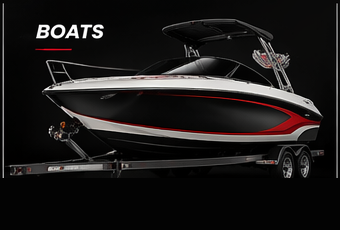
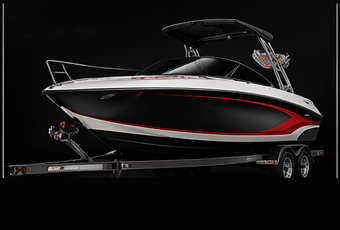
Normalize vehicle gallery image cards

Changed region(s): [[0.0882, 0.0913, 0.3235, 0.2435]]

diff --git a/styles.css b/styles.css
@@ -67,7 +67,7 @@ a {
 }
 
 .section-anchor {
-  scroll-margin-top: 92px;
+  scroll-margin-top: 144px;
 }
 
 .site-header {
@@ -370,95 +370,81 @@ address svg {
 
 .vehicle-card {
   position: relative;
-  min-height: 290px;
   overflow: hidden;
-  background: #090909;
+  background: #030303;
 }
 
 .vehicle-card+.vehicle-card {
   border-left: 1px solid rgba(255, 255, 255, 0.25);
 }
 
+/* All three source images share one aspect ratio; contain keeps every vehicle intact. */
 .card-image {
+  position: relative;
+  width: 100%;
+  aspect-ratio: 340 / 230;
+  overflow: hidden;
+  background: #030303;
+}
+
+.card-image img {
+  width: 100%;
+  height: 100%;
+  object-fit: contain;
+  object-position: center;
+  opacity: 0.94;
+}
+
+.card-image h3 {
   position: absolute;
-  inset: 0;
-  background-repeat: no-repeat;
-  background-size: cover;
-  background-position: center;
-  opacity: 0.88;
+  top: clamp(14px, 1.8vw, 20px);
+  left: clamp(16px, 2.2vw, 24px);
+  margin: 0;
+  color: #fff;
+  font-size: clamp(15px, 1.55vw, 19px);
+  font-weight: 900;
+  line-height: 1.1;
+  letter-spacing: 0.05em;
+  text-transform: uppercase;
+  text-shadow: 0 2px 10px rgba(0, 0, 0, 0.96);
 }
 
-.card-auto {
-  background-image: url("/public/assets/crops/auto.png");
-}
-
-.card-boat {
-  background-image: url("/public/assets/crops/boat.png");
-}
-
-.card-motorcycle {
-  background-image: url("/public/assets/crops/motorcycle.png");
-  background-color: #030303;
-  background-size: contain;
-  background-position: center bottom;
+.card-image h3::after {
+  display: block;
+  width: 36px;
+  height: 2px;
+  margin-top: 9px;
+  content: "";
+  background: var(--red);
 }
 
 .card-content {
-  position: relative;
-  z-index: 2;
-  display: block;
-  min-height: 290px;
-  padding: 24px clamp(20px, 4vw, 42px);
-}
-
-.card-content::after {
-  position: absolute;
-  left: 0;
-  right: 0;
-  bottom: 0;
-  z-index: 1;
-  height: 112px;
-  content: "";
-  background: linear-gradient(180deg, rgba(3, 3, 3, 0), #030303 36%, #030303 100%);
-}
-
-.card-content h3 {
-  position: absolute;
-  width: 1px;
-  height: 1px;
-  padding: 0;
-  margin: -1px;
-  overflow: hidden;
-  clip: rect(0, 0, 0, 0);
-  white-space: nowrap;
-  border: 0;
-}
-
-/* The category title is part of the motorcycle artwork, like the Autos and Boats images. */
-
-.card-content a {
-  position: absolute;
-  z-index: 2;
-  left: clamp(20px, 4vw, 42px);
-  bottom: 24px;
-  display: inline-flex;
-  min-width: 172px;
-  min-height: 42px;
+  display: flex;
+  min-height: 82px;
   align-items: center;
   justify-content: center;
-  padding: 0 18px;
+  padding: 14px clamp(12px, 1.6vw, 20px);
+}
+
+.card-content a {
+  display: inline-flex;
+  width: min(100%, 220px);
+  min-width: 0;
+  min-height: 48px;
+  align-items: center;
+  justify-content: center;
+  padding: 0 12px;
   color: #fff;
   background: var(--red);
+  text-align: center;
   text-transform: uppercase;
-  font-size: 12px;
+  font-size: clamp(10px, 1vw, 12px);
   font-weight: 900;
-  box-shadow: 0 0 0 6px var(--red);
-  transition: background 180ms ease, box-shadow 180ms ease;
+  transition: background 180ms ease;
 }
 
 .card-content a:hover {
   background: var(--red-dark);
-  box-shadow: 0 0 0 6px var(--red-dark);
 }
 
 .services {
@@ -1073,18 +1059,6 @@ address svg {
   }
 }
 
-@media (max-width: 900px) {
-  .service-cards {
-    grid-template-columns: repeat(2, minmax(0, 1fr));
-  }
-
-  .vehicle-card.motorcycle-card {
-    grid-column: 1 / -1;
-    border-left: 0;
-    border-top: 1px solid rgba(255, 255, 255, 0.25);
-  }
-}
-
 @media (max-width: 760px) {
   .site-header {
     grid-template-columns: 80px minmax(0, 1fr) 44px;
@@ -1198,20 +1172,6 @@ address svg {
   .vehicle-card+.vehicle-card {
     border-left: 0;
     border-top: 1px solid rgba(255, 255, 255, 0.25);
-  }
-
-  .card-content {
-    min-height: 235px;
-  }
-
-  .card-content::after {
-    height: 150px;
-    background: #030303;
-  }
-
-  .card-content a {
-    bottom: 34px;
-    box-shadow: none;
   }
 
   .services {
@@ -1365,8 +1325,13 @@ address svg {
   }
 }
 
+@media (max-width: 980px) {
+  .section-anchor {
+    scroll-margin-top: 124px;
+  }
+}
+
 @media (max-width: 760px) {
-  /* Mobile header is about 96px tall; keep anchored headings clear of it. */
   .section-anchor {
     scroll-margin-top: 108px;
   }

diff --git a/index.html b/index.html
@@ -153,26 +153,29 @@
       </div>
       <div class="service-cards">
         <article class="vehicle-card">
-          <div class="card-image card-auto asset-window" role="img"
-            aria-label="Detailed red performance car front view"></div>
-          <div class="card-content">
+          <div class="card-image card-auto">
+            <img src="/public/assets/crops/auto.png" alt="Detailed red performance car front view" width="340" height="230" />
             <h3>Autos</h3>
+          </div>
+          <div class="card-content">
             <a href="#services">Detail Your Ride<span class="sr-only"> – auto detailing services</span></a>
           </div>
         </article>
         <article class="vehicle-card">
-          <div class="card-image card-boat asset-window" role="img"
-            aria-label="Detailed white and red boat on a trailer"></div>
-          <div class="card-content">
+          <div class="card-image card-boat">
+            <img src="/public/assets/crops/boat.png" alt="Detailed white and red boat on a trailer" width="340" height="230" />
             <h3>Boats</h3>
+          </div>
+          <div class="card-content">
             <a href="#services">Marine Services<span class="sr-only"> – boat detailing services</span></a>
           </div>
         </article>
         <article class="vehicle-card motorcycle-card">
-          <div class="card-image card-motorcycle asset-window" role="img"
-            aria-label="Red and black sport motorcycle with glossy finish"></div>
-          <div class="card-content">
+          <div class="card-image card-motorcycle">
+            <img src="/public/assets/crops/motorcycle.png" alt="Red and black sport motorcycle with glossy finish" width="340" height="230" />
             <h3>Motorcycles</h3>
+          </div>
+          <div class="card-content">
             <a href="#services">Motorcycle Services<span class="sr-only"> – motorcycle detailing services</span></a>
           </div>
         </article>
